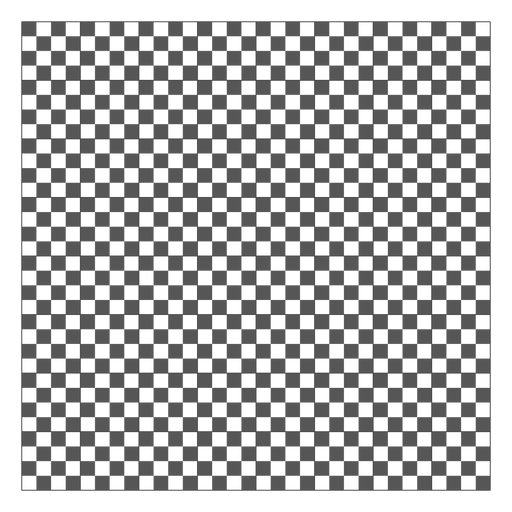
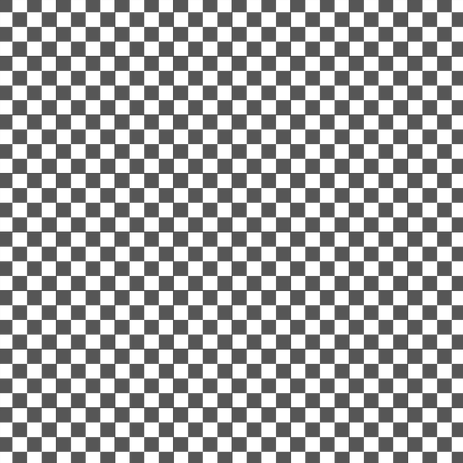
Add style for partners and footer sections

diff --git a/css/style.css b/css/style.css
@@ -90,6 +90,7 @@ header #keynote {
   padding: 20px;
   border: 3px solid var(--white);
   font-size: 1.2rem;
+  max-width: 700px;
 }
 
 header .event-date {
@@ -187,7 +188,7 @@ main #speakers {
 }
 
 #speakers .speaker-card .grid-bg {
-  background: url('../assets/img/black-and-white-square-grid2.png');
+  background: url('../assets/img/black-and-white-square-grid.png');
   background-size: 150px;
   height: 50px;
   width: 50px;
@@ -241,9 +242,58 @@ main #speakers {
 #speakers .up {
   transform: rotate(90deg);
 }
+/* Speakers secton styling ends here */
 
+/* Partners section styling begins here */
+.partners {
+  display: flex;
+  flex-direction: column;
+  justify-content: center;
+  align-items: center;
+  color: var(--grey);
+  padding: 30px 0 50px 0;
+}
 
+.partners .logo-images-cont {
+  display: flex;
+  flex-wrap: wrap;
+  align-items: center;
+  justify-content: center;
+  position: relative;
+  /* padding-bottom: 50px; */
+}
 
+.partners .logo-images-cont img {
+  width: 70px;
+  /* height: 20px; */
+  margin-right: 30px;
+}
+/* Partners section styling end here */
 
+footer {
+  display: flex;
+  height: 100px;
+  align-items: center;
+  justify-content: center;
+  background: var(--white);
+}
 
-/* Speakers secton styling begins here */
+footer .copy {
+  flex-grow: 1;
+  text-align: right;
+  margin-right: 30px;
+}
+
+footer .copyright {
+  flex-grow: 3;
+}
+
+/* Media Queries */
+@media (min-width: 768) {
+  header {
+    /* background-size: cover; */
+    padding: 0 100px 0 100px;
+    height: 100vh;
+  }
+
+}

diff --git a/index.html b/index.html
@@ -38,7 +38,6 @@
 
       <h2>Main Program</h2>
       <hr class="heading-underline">
-      <!-- <div class="underline"></div> -->
       <div class="program-cards-container">
         <div class="program-card">
           <img src="./assets/img/lecture-icon.png" alt="Lecture Icon">
@@ -154,19 +153,18 @@
   <section class="partners">
     <h2>Partners</h2>
     <hr class="heading-underline">
-    <!-- <div class="underline"></div> -->
-    <div class="logo-images">
-      <!-- <img src="./assets/img/mozilla-logo.png" alt="Mozilla">
+    <div class="logo-images-cont">
+      <img src="./assets/img/mozilla-logo.png" alt="Mozilla">
       <img src="./assets/img/google-logo.png" alt="Google">
       <img src="./assets/img/naver-Logo.png" alt="Naver Corporation">
       <img src="./assets/img/daumkakao_icon.png" alt="Daumkakao">
-      <img src="./assets/img/airbnb-logo.png" alt="Air BNB"> -->
+      <img src="./assets/img/airbnb-logo.png" alt="Air BNB">
       <div class="partners-overlay"></div>
     </div>
   </section>
   <footer>
-    <div>&copy;2022 Novustack.</div>
-    <div>All rights reserved</div>
+    <p class="copy">&copy;2022 Novustack.</p>
+    <p class="copyright">All rights reserved</p>
   </footer>
   <script src="./js/script.js"></script>
 </body>
